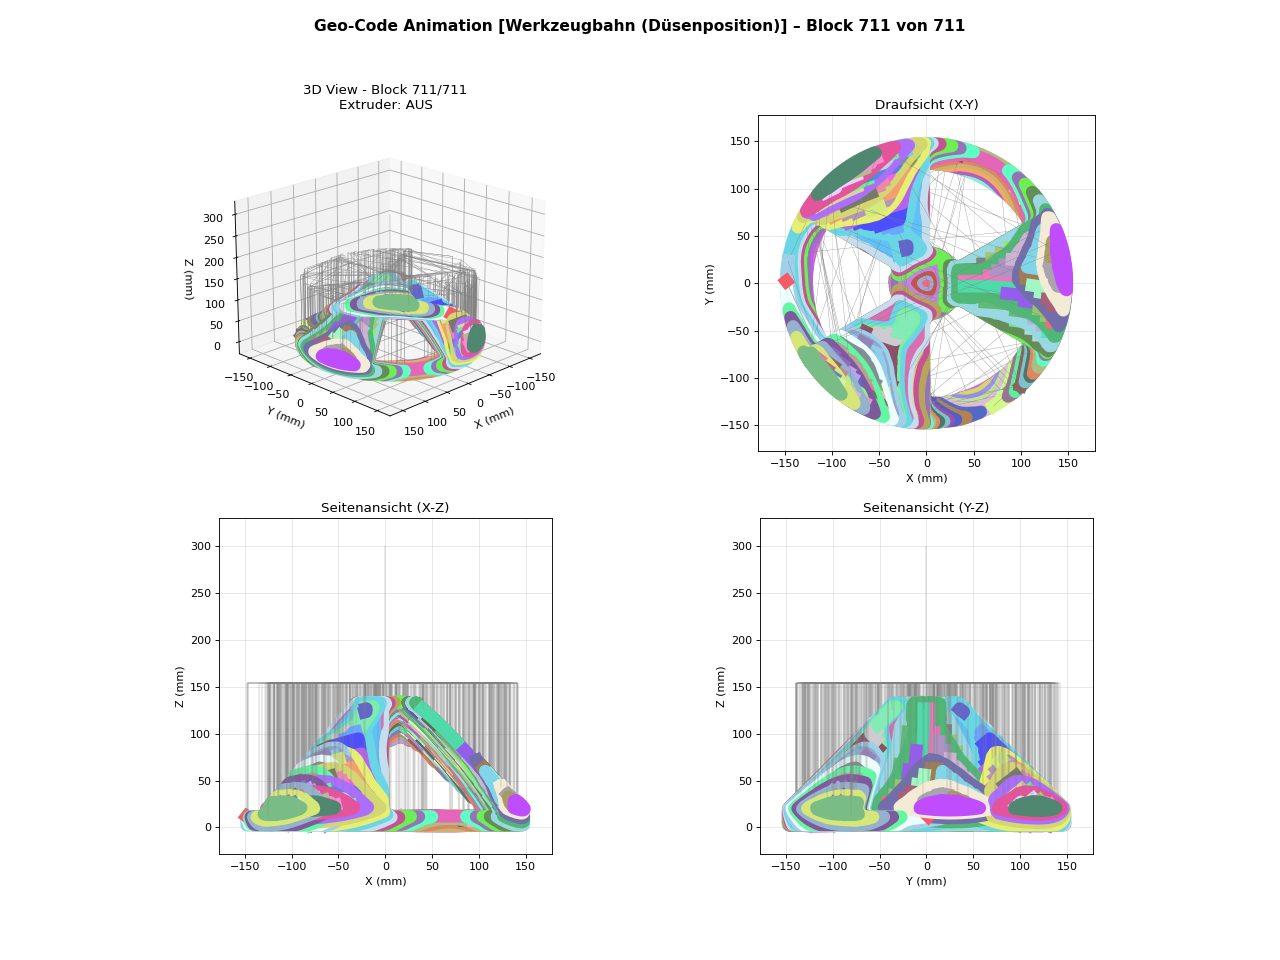
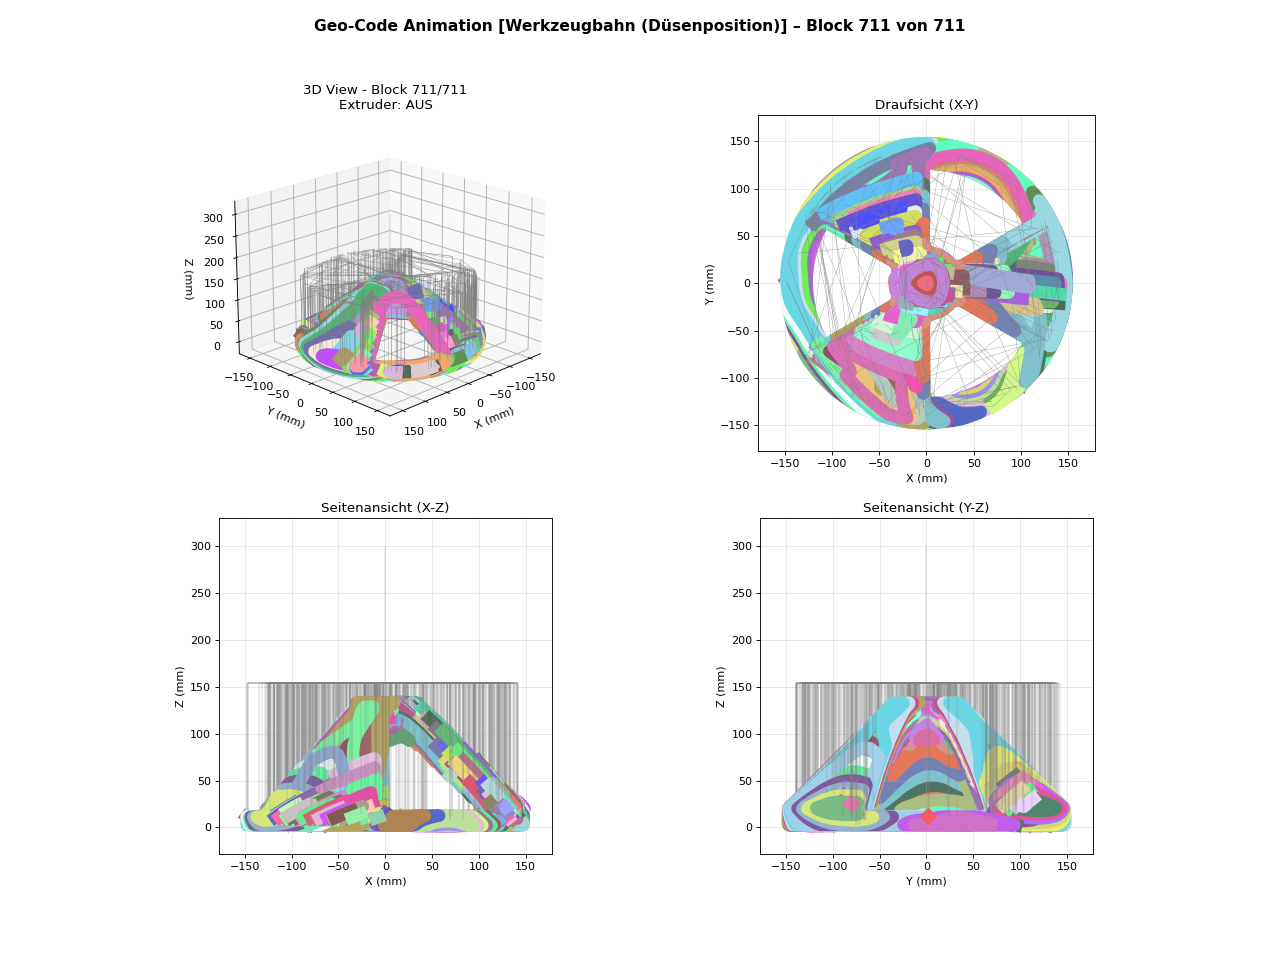
optimised visualisation

diff --git a/py_geo_code_visualisation.py b/py_geo_code_visualisation.py
@@ -247,11 +247,21 @@ class GeoCodeVisualizer:
                 color = 'gray'
                 linewidth = mm_to_pt(line_width_travel)
 
+            mean_xyz = np.mean(coords, axis=0)
             prepared_blocks.append({
                 'coords': coords,
                 'color': color,
                 'linewidth': linewidth,
                 'extruder_on': block['extruder_on'],
+                # Tiefenwerte für korrekte Überlappung in den 2D-Projektionen:
+                # XY-Ansicht (von oben): höhere Z = Vordergrund → hoher zorder
+                # XZ-Ansicht (von vorne, Tiefe = Y): kleine Y = Vordergrund → hoher zorder
+                # YZ-Ansicht (von der Seite, Tiefe = X): kleine X = Vordergrund → hoher zorder
+                'zorder_xy': float(mean_xyz[2]),
+                'zorder_xz': float(-mean_xyz[1]),
+                'zorder_yz': float(-mean_xyz[0]),
+                # Tiefe relativ zur Kamera (wird später für Painter's-Sort in 3D gesetzt)
+                'mean_xyz': mean_xyz,
             })
 
         all_coords = np.vstack([b['coords'] for b in prepared_blocks])
@@ -272,7 +282,21 @@ class GeoCodeVisualizer:
         
         frames = []
         print(f"Erstelle {len(blocks)} Frames...")
-        # Einmalige Figure; pro Frame nur den nächsten Block ergänzen und Bild aus dem Canvas ziehen
+
+        # Tiefenvektor der Kamera: von der Szene in Richtung Kamera (elev=20°, azim=45°)
+        # Für die 3D-Sortierung verwenden wir den Schwerpunkt (Mittelpunkt) eines Blocks.
+        _elev_r = np.radians(20)
+        _azim_r = np.radians(45)
+        _view_dir = np.array([
+            np.cos(_elev_r) * np.cos(_azim_r),
+            np.cos(_elev_r) * np.sin(_azim_r),
+            np.sin(_elev_r),
+        ])
+        for pb in prepared_blocks:
+            pb['depth_3d'] = float(np.dot(pb['mean_xyz'], _view_dir))
+
+        # Einmalige Figure; 3D-Achse wird pro Frame neu gezeichnet (Painter's Sort),
+        # 2D-Achsen bleiben inkrementell mit zorder.
         fig = plt.figure(figsize=(16, 12), dpi=dpi)
 
         # 3D Subplot
@@ -283,14 +307,22 @@ class GeoCodeVisualizer:
         ax_xz = fig.add_subplot(2, 2, 3)
         ax_yz = fig.add_subplot(2, 2, 4)
 
+        ELEV, AZIM = 20, 45
+
+        def _setup_ax3d(ax, title=''):
+            """(Neu-)Einrichten der 3D-Achse nach cla()."""
+            ax.set_xlabel('X (mm)')
+            ax.set_ylabel('Y (mm)')
+            ax.set_zlabel('Z (mm)')
+            ax.set_xlim(x_min, x_max)
+            ax.set_ylim(y_min, y_max)
+            ax.set_zlim(z_min, z_max)
+            ax.view_init(elev=ELEV, azim=AZIM)
+            if title:
+                ax.set_title(title)
+
         # Statisches Axis-Setup
-        ax3d.set_xlabel('X (mm)')
-        ax3d.set_ylabel('Y (mm)')
-        ax3d.set_zlabel('Z (mm)')
-        ax3d.set_xlim(x_min, x_max)
-        ax3d.set_ylim(y_min, y_max)
-        ax3d.set_zlim(z_min, z_max)
-        ax3d.view_init(elev=20, azim=45)
+        _setup_ax3d(ax3d)
 
         ax_xy.set_xlabel('X (mm)')
         ax_xy.set_ylabel('Y (mm)')
@@ -330,15 +362,25 @@ class GeoCodeVisualizer:
             ys = coords[:, 1]
             zs = coords[:, 2]
 
-            # Nur neuen Block hinzufügen (kumulative Darstellung entsteht automatisch)
-            ax3d.plot(xs, ys, zs, color=color, linewidth=linewidth, alpha=1.0)
-            ax_xy.plot(xs, ys, color=color, linewidth=linewidth, alpha=1.0)
-            ax_xz.plot(xs, zs, color=color, linewidth=linewidth, alpha=1.0)
-            ax_yz.plot(ys, zs, color=color, linewidth=linewidth, alpha=1.0)
+            # 3D: alle bisherigen Blöcke nach Kamera-Tiefe sortiert neu zeichnen (Painter's Algorithm)
+            title_3d = f'3D View - Block {block_idx + 1}/{len(prepared_blocks)}\nExtruder: {"AN" if prep["extruder_on"] else "AUS"}'
+            ax3d.cla()
+            _setup_ax3d(ax3d, title=title_3d)
+            visible = prepared_blocks[:block_idx + 1]
+            for pb in sorted(visible, key=lambda b: b['depth_3d']):  # fern → nah
+                c = pb['coords']
+                ax3d.plot(c[:, 0], c[:, 1], c[:, 2],
+                          color=pb['color'], linewidth=pb['linewidth'], alpha=1.0)
 
-            ax3d.set_title(
-                f'3D View - Block {block_idx + 1}/{len(prepared_blocks)}\nExtruder: {"AN" if prep["extruder_on"] else "AUS"}'
-            )
+            # 2D: inkrementell mit zorder für korrekte Überlappung
+            # zorder steuert die Zeichenreihenfolge in den 2D-Ansichten:
+            # Vordergrund-Linien (näher am Betrachter) erhalten einen höheren zorder-Wert.
+            ax_xy.plot(xs, ys, color=color, linewidth=linewidth, alpha=1.0,
+                       zorder=prep['zorder_xy'])
+            ax_xz.plot(xs, zs, color=color, linewidth=linewidth, alpha=1.0,
+                       zorder=prep['zorder_xz'])
+            ax_yz.plot(ys, zs, color=color, linewidth=linewidth, alpha=1.0,
+                       zorder=prep['zorder_yz'])
             fig.suptitle(
                 f'Geo-Code Animation [{coord_label}] – Block {block_idx + 1} von {len(prepared_blocks)}',
                 fontsize=14, fontweight='bold'